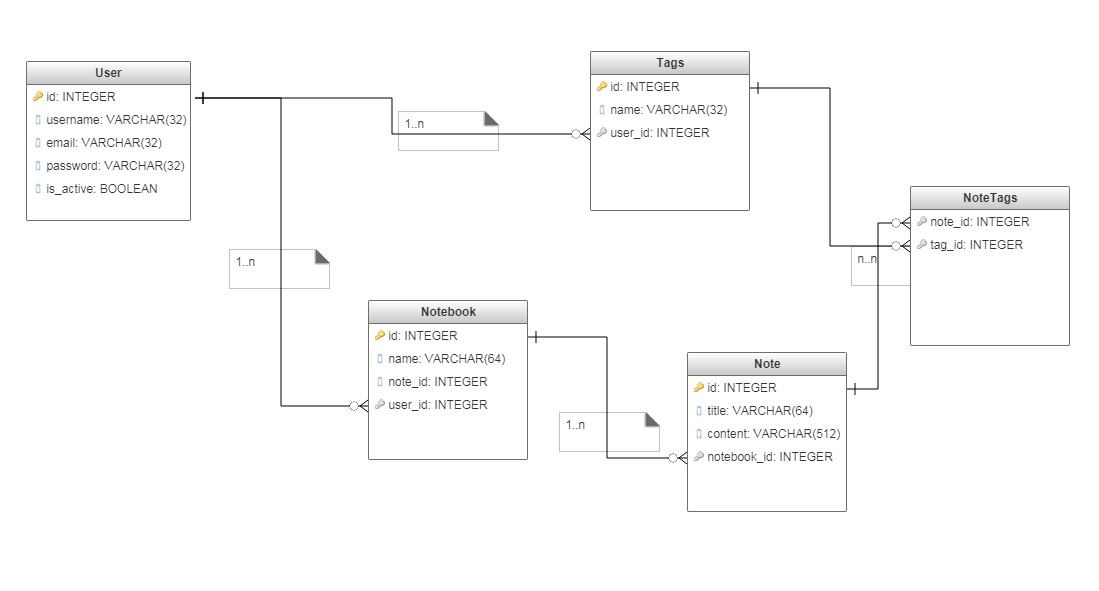
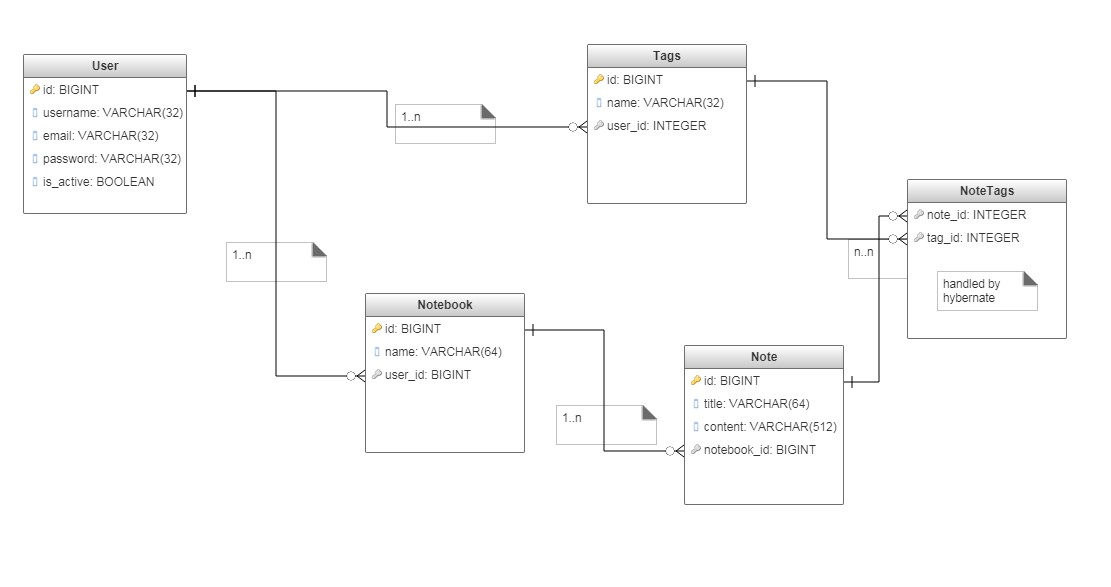
e-notes/ diagram changed, small corrections

diff --git a/src/test/java/com/epam/spring/dao/TagsRepositoryTest.java b/src/test/java/com/epam/spring/dao/TagsRepositoryTest.java
@@ -3,7 +3,6 @@ package com.epam.spring.dao;
 import com.epam.spring.config.AppConfig;
 import com.epam.spring.model.Tags;
 import org.junit.After;
-import org.junit.Before;
 import org.junit.Test;
 import org.junit.runner.RunWith;
 import org.springframework.beans.factory.annotation.Autowired;
@@ -20,16 +19,9 @@ import static org.junit.Assert.assertEquals;
 @ContextConfiguration(classes = AppConfig.class)
 public class TagsRepositoryTest {
 
+    private final String tagName = "My new tag";
     @Autowired
     TagsRepository tagsRepository;
-
-    @Before
-    public void setUp() throws Exception {
-        /*User user = new User("Semen", "semen@mail.ru", "somepass", true);
-        Tags tags = new Tags(user, "My new tag");
-
-        tagsRepository.save(tags);*/
-    }
 
     @After
     public void tearDown() throws Exception {
@@ -38,7 +30,7 @@ public class TagsRepositoryTest {
 
     @Test
     public void testCreateTag() throws Exception {
-        Tags tags = new Tags(null, "My new tag");
+        Tags tags = new Tags(null, tagName);
 
         Tags expected = tagsRepository.save(tags);
 
@@ -49,7 +41,7 @@ public class TagsRepositoryTest {
 
     @Test
     public void testDeleteTag() throws Exception {
-        Tags tags = new Tags(null, "My new tag");
+        Tags tags = new Tags(null, tagName);
 
         Tags expected = tagsRepository.save(tags);
 
@@ -61,7 +53,7 @@ public class TagsRepositoryTest {
     @Test
     //TODO involve user_id (future stages)
     public void testGetTagByName() throws Exception {
-        String tagName = "My new tag";
+        String tagName = this.tagName;
         Tags firstTag = new Tags(null, tagName);
         Tags secondTag = new Tags(null, tagName);
 

diff --git a/src/main/java/com/epam/spring/Application.java b/src/main/java/com/epam/spring/Application.java
@@ -1,14 +1,7 @@
 package com.epam.spring;
 
-import com.epam.spring.dao.UserRepository;
-import org.springframework.beans.factory.annotation.Autowired;
-import org.springframework.context.annotation.AnnotationConfigApplicationContext;
-
 public class Application {
-    @Autowired
-    UserRepository repository;
 
     public static void main(String[] args) {
-
     }
 }

diff --git a/src/main/java/com/epam/spring/dao/NoteRepository.java b/src/main/java/com/epam/spring/dao/NoteRepository.java
@@ -8,6 +8,7 @@ import org.springframework.data.jpa.repository.Query;
 import java.util.List;
 
 public interface NoteRepository extends JpaRepository<Note, Long> {
+
     @Query("select n from Note n where n.id = ?1")
     Note getById(Long id);
 

diff --git a/src/main/java/com/epam/spring/dao/TagsRepository.java b/src/main/java/com/epam/spring/dao/TagsRepository.java
@@ -18,5 +18,4 @@ public interface TagsRepository extends JpaRepository<Tags, Long> {
 
     @Query("select t from Tags t where t.name = ?1")
     List<Tags> getAllByName(String name);
-
 }
